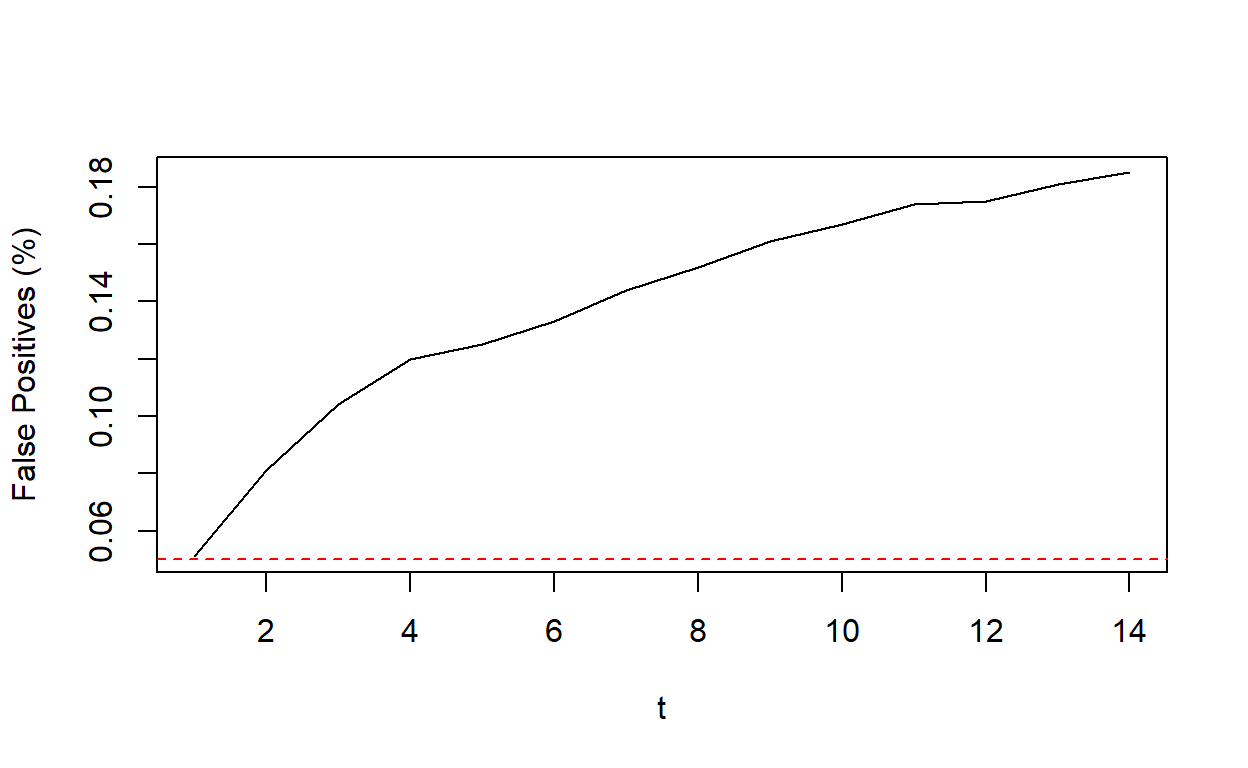
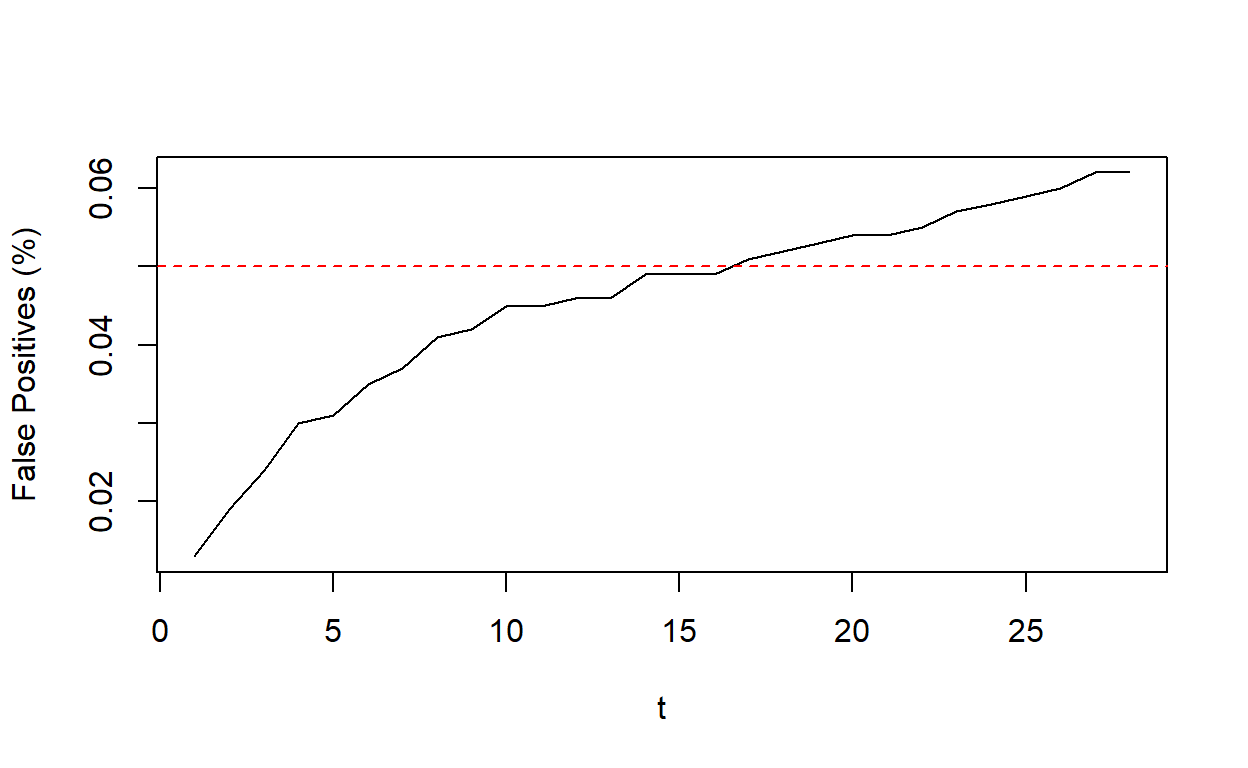
Update draft "AB tests and repeated checks"

diff --git a/_posts/ab-tests-and-repeated-checking/ab-tests-and-repeated-checking.html b/_posts/ab-tests-and-repeated-checking/ab-tests-and-repeated-checking.html
@@ -1538,24 +1538,25 @@ code span.wa { color: #5e5e5e; font-style: italic; } /* Warning */
 <blockquote>
 <p>“Did we already hit significance, or do we need more data?”</p>
 </blockquote>
-<p>If you are regularly dealing with experiments whose outcomes are loaded with
-high expectations, you will likely have received (or perhaps asked yourself)
-similar questions from time to time.</p>
+<p>If you have dealt with experiments with relatively high outcome expectations,
+you will likely have received (or perhaps asked yourself) similar questions
+from time to time.</p>
 <p>In many data analysis contexts, including but not limited to for-profit ones,
 researchers are always trying to come up with positive results as fast as
 they can. Therefore, it is not at all surprising to see questions such as the
 ones above regularly arise during the course of an experiment. This is natural
 and not a problem <em>per se</em>. What I want to highlight and quantify in this post
 is how, if not done carefully, such “real-time” monitoring schedules can
-seriously invalidate data analysis - mainly by inflating false positive rates.</p>
-<p>Generally speaking, naive monitoring leads to a problem of Selective
-Inference (a topic which I have touched in <a href="https://vgherard.github.io/#category:Selective_Inference">other places in this blog</a>). Avoiding
-repeated checks is not the only valid solution - here the keyword is
-<a href="https://en.wikipedia.org/wiki/Sequential_analysis">Sequential Hypothesis Testing</a>,
-a topic I may explore in future posts. Here my goal is to understand how bad is
-the bad solution, which we can easily achieve through simulation.</p>
+seriously invalidate data analysis - by inflating false positive and false
+negative rates.</p>
+<p>Generally speaking, naive monitoring leads to problems of selective/simultaneous
+inference (a topic which I have touched in <a href="https://vgherard.github.io/#category:Selective_Inference">other places in this blog</a>). Avoiding
+ad-hoc checks is not the only valid solution - if you want to learn about some
+proper method you may want to look into <a href="https://en.wikipedia.org/wiki/Sequential_analysis">Sequential Hypothesis Testing</a>,
+a topic that I may explore in future posts. Here my goal is to understand
+<em>how bad is the bad solution</em>, which can be easily answered through simulation.</p>
 <h2 id="whats-the-matter-with-repeated-checks">What’s the matter with repeated checks?</h2>
-<p>To understand where do problems arise, let’s remind that the classical
+<p>To understand why problems can arise, recall that the classical
 Frequentist framework <a href="#fn1" class="footnote-ref" id="fnref1" role="doc-noteref"><sup>1</sup></a> operates by providing
 <em>a priori</em> guarantees (bounds) on the probabilities of <a href="#fn2" class="footnote-ref" id="fnref2" role="doc-noteref"><sup>2</sup></a>:</p>
 <ul>
@@ -1563,16 +1564,63 @@ Frequentist framework <a href="#fn1" class="footnote-ref" id="fnref1" role="doc-
 hypothesis when this is actually true.</li>
 <li>A false negative outcome in the presence of some (well-defined) signal.</li>
 </ul>
-<p>These guarantees are always formulated assuming a certain experimental
-<em>schedule</em>, and any departure from it invalidates in principle the
-claimed False Positive Rate (FPR) and False Negative Rate (FNR).</p>
-<h1 id="simulation">Simulation</h1>
+<p>The <em>a priori</em> nature of these guarantees means that they are stipulated before
+running the experiment and assuming a certain experimental <em>schedule</em> <a href="#fn3" class="footnote-ref" id="fnref3" role="doc-noteref"><sup>3</sup></a>.
+This implies that any departure from the original schedule can in principle
+invalidate the claimed False Positive Rate (FPR) and False Negative Rate (FNR).</p>
+<p>For instance, the most basic experimental schedule
+(actually the one implicitly assumed by virtually all <a href="https://www.google.com/search?q=sample+size+calculator">sample size calculators</a>
+) is:</p>
+<ol type="1">
+<li>Collect data until reaching a prefixed sample size.</li>
+<li>Run an hypothesis test (with a prefixed significance threshold for claiming a
+signal).</li>
+</ol>
+<p>Common examples of departures from the original schedule include:</p>
+<ul>
+<li>Running several tests on partial data (before reaching the established sample
+size), to look for an early signal.</li>
+<li>Stopping the experiment beforehand, because partial data doesn’t show any
+signal.</li>
+<li>Prolonging the experiment after reaching the established sample size, because
+there’s a “hint” to a signal, but the significance threshold was not reached.</li>
+</ul>
+<p>In what follows, I will focus on the first behavior, whose result is to inflate
+the FPR. Again, there are various ways to perform repeated checks while keeping
+the FPR under control, but that’s not the focus of this post. Instead, I want to
+understand how FPR is affected by <em>repeating the original test several</em> times on
+partial data.</p>
+<h2 id="example">Example</h2>
+<p>Let me illustrate the idea with an example from marketing. Suppose you are
+running an experiment to optimize an email campaign, say you want to test
+whether a new email subject performs better (in terms of opening rates) than
+the current one.</p>
+<p>In order to do so, you start sending batches of 2K emails to random users,
+1K using the new subject and 1K using the old one. After each send, you
+compare the opening rates of all users reached so far, with the idea of
+replacing the old subject with the new one,
+<em>as soon as a statistically significant improvement is observed</em>.</p>
+<p>Concretely, you propose to do the following:</p>
+<ol type="1">
+<li>At each step, calculate the opening rates for the old and new subjects,
+for all email sends so far.</li>
+<li>Compute a <span class="math inline">\(p\)</span>-value for the hypothesis test<a href="#fn4" class="footnote-ref" id="fnref4" role="doc-noteref"><sup>4</sup></a> that tests whether the new subject leads
+to an higher opening rate than the old one.</li>
+<li>If the <span class="math inline">\(p\)</span>-value is smaller than a certain fixed threshold <span class="math inline">\(\alpha\)</span>, stop the
+experiment and declare the new subject as the winner.</li>
+<li>If no <span class="math inline">\(p\)</span>-value smaller than <span class="math inline">\(\alpha\)</span> is observed after a certain number <span class="math inline">\(n\)</span>
+of iterations, stop the experiment and declare the old subject as the winner.</li>
+</ol>
+<p>Now, the question is: how often would the above procedure declare the new
+subject as the winner, if it doesn’t truly perform better than the old one?
+(<em>i.e.</em> what is the FPR of the whole procedure?)</p>
+<h2 id="simulation">Simulation</h2>
+<p>To simplify things,</p>
 <div class="layout-chunk" data-layout="l-body">
 <div class="sourceCode">
 <pre class="sourceCode r"><code class="sourceCode r"><span><span class='va'>generate_p_values</span> <span class='op'>&lt;-</span> <span class='kw'>function</span><span class='op'>(</span><span class='va'>n</span> <span class='op'>=</span> <span class='fl'>14</span>, </span>
 <span>                              <span class='va'>size</span> <span class='op'>=</span> <span class='fl'>1e3</span>, </span>
-<span>                              <span class='va'>prob</span> <span class='op'>=</span> <span class='fl'>0.5</span>, </span>
-<span>                              <span class='va'>conf.level</span> <span class='op'>=</span> <span class='fl'>0.05</span></span>
+<span>                              <span class='va'>prob</span> <span class='op'>=</span> <span class='fl'>0.5</span></span>
 <span>                              <span class='op'>)</span> </span>
 <span>  <span class='op'>{</span></span>
 <span>  <span class='va'>successes_a</span> <span class='op'>&lt;-</span> <span class='fu'><a href='https://rdrr.io/r/base/cumsum.html'>cumsum</a></span><span class='op'>(</span> <span class='fu'><a href='https://rdrr.io/r/stats/Binomial.html'>rbinom</a></span><span class='op'>(</span>n <span class='op'>=</span> <span class='va'>n</span>, size <span class='op'>=</span> <span class='va'>size</span>, prob <span class='op'>=</span> <span class='va'>prob</span><span class='op'>)</span> <span class='op'>)</span></span>
@@ -1583,7 +1631,6 @@ claimed False Positive Rate (FPR) and False Negative Rate (FNR).</p>
 <span>      x <span class='op'>=</span> <span class='fu'><a href='https://rdrr.io/r/base/c.html'>c</a></span><span class='op'>(</span><span class='va'>successes_a</span><span class='op'>[</span><span class='va'>k</span><span class='op'>]</span>, <span class='va'>successes_b</span><span class='op'>[</span><span class='va'>k</span><span class='op'>]</span><span class='op'>)</span>, </span>
 <span>      n <span class='op'>=</span> <span class='va'>k</span> <span class='op'>*</span> <span class='va'>size</span> <span class='op'>*</span> <span class='fu'><a href='https://rdrr.io/r/base/c.html'>c</a></span><span class='op'>(</span><span class='fl'>1</span>, <span class='fl'>1</span><span class='op'>)</span>, </span>
 <span>      alternative <span class='op'>=</span> <span class='st'>"greater"</span>,</span>
-<span>      conf.level <span class='op'>=</span> <span class='va'>conf.level</span></span>
 <span>      <span class='op'>)</span><span class='op'>$</span><span class='va'>p.value</span></span>
 <span>  <span class='op'>}</span><span class='op'>)</span></span>
 <span><span class='op'>}</span></span></code></pre>
@@ -1593,13 +1640,13 @@ claimed False Positive Rate (FPR) and False Negative Rate (FNR).</p>
 <div class="sourceCode">
 <pre class="sourceCode r"><code class="sourceCode r"><span><span class='fu'><a href='https://rdrr.io/r/base/Random.html'>set.seed</a></span><span class='op'>(</span><span class='fl'>840</span><span class='op'>)</span></span>
 <span><span class='va'>ps</span> <span class='op'>&lt;-</span> <span class='fu'><a href='https://rdrr.io/r/base/lapply.html'>replicate</a></span><span class='op'>(</span><span class='fl'>1e3</span>, <span class='fu'>generate_p_values</span><span class='op'>(</span></span>
-<span>  n <span class='op'>=</span> <span class='fl'>14</span>, size <span class='op'>=</span> <span class='fl'>1e3</span>, prob <span class='op'>=</span> <span class='fl'>0.5</span>, conf.level <span class='op'>=</span> <span class='fl'>0.05</span></span>
+<span>  n <span class='op'>=</span> <span class='fl'>28</span>, size <span class='op'>=</span> <span class='fl'>1e3</span>, prob <span class='op'>=</span> <span class='fl'>0.5</span></span>
 <span><span class='op'>)</span><span class='op'>)</span> <span class='op'>|&gt;</span> <span class='fu'><a href='https://rdrr.io/r/base/t.html'>t</a></span><span class='op'>(</span><span class='op'>)</span></span></code></pre>
 </div>
 </div>
 <div class="layout-chunk" data-layout="l-body">
 <div class="sourceCode">
-<pre class="sourceCode r"><code class="sourceCode r"><span><span class='va'>m</span> <span class='op'>&lt;-</span> <span class='fu'><a href='https://rdrr.io/r/base/apply.html'>apply</a></span><span class='op'>(</span><span class='va'>ps</span>, <span class='fl'>1</span>, \<span class='op'>(</span><span class='va'>x</span><span class='op'>)</span> <span class='fu'><a href='https://rdrr.io/r/base/logical.html'>as.logical</a></span><span class='op'>(</span><span class='fu'><a href='https://rdrr.io/r/base/cumsum.html'>cumsum</a></span><span class='op'>(</span><span class='va'>x</span> <span class='op'>&lt;</span> <span class='fl'>0.05</span><span class='op'>)</span><span class='op'>)</span><span class='op'>)</span> <span class='op'>|&gt;</span> <span class='fu'><a href='https://rdrr.io/r/base/t.html'>t</a></span><span class='op'>(</span><span class='op'>)</span></span></code></pre>
+<pre class="sourceCode r"><code class="sourceCode r"><span><span class='va'>m</span> <span class='op'>&lt;-</span> <span class='fu'><a href='https://rdrr.io/r/base/apply.html'>apply</a></span><span class='op'>(</span><span class='va'>ps</span>, <span class='fl'>1</span>, \<span class='op'>(</span><span class='va'>x</span><span class='op'>)</span> <span class='fu'><a href='https://rdrr.io/r/base/logical.html'>as.logical</a></span><span class='op'>(</span><span class='fu'><a href='https://rdrr.io/r/base/cumsum.html'>cumsum</a></span><span class='op'>(</span><span class='va'>x</span> <span class='op'>&lt;</span> <span class='fl'>0.01</span><span class='op'>)</span><span class='op'>)</span><span class='op'>)</span> <span class='op'>|&gt;</span> <span class='fu'><a href='https://rdrr.io/r/base/t.html'>t</a></span><span class='op'>(</span><span class='op'>)</span></span></code></pre>
 </div>
 </div>
 <div class="layout-chunk" data-layout="l-body">
@@ -1614,9 +1661,17 @@ claimed False Positive Rate (FPR) and False Negative Rate (FNR).</p>
 </div>
 <p><img src="ab-tests-and-repeated-checking_files/figure-html5/unnamed-chunk-5-1.png" width="624" /></p>
 </div>
-<h1 id="other-simulation">Other simulation</h1>
+<h2 id="other-simulation">Other simulation</h2>
 <p>Using the logic “if significance &gt; 80%”, continue the experiment, otherwise
 not.</p>
+<h2 id="notes">Notes</h2>
+<p>But before jumping into numbers, let us ask for a moment:
+<em>should we really care?</em></p>
+<p>My answer is a resounding <em>yes</em>, irrespective of whether you are running
+experiments for purely scientific or utilitaristic purposes. If you are unable
+to quantify, or at least approximate, the true FPR and FNR of a statistical
+test, it means that you essentially don’t know what you are doing: you may be
+convinced that your setting gives a false positive</p>
 <div class="sourceCode" id="cb1"><pre class="sourceCode r distill-force-highlighting-css"><code class="sourceCode r"></code></pre></div>
 <section id="footnotes" class="footnotes footnotes-end-of-document" role="doc-endnotes">
 <hr />
@@ -1632,6 +1687,12 @@ used to indicate these two types of errors, and the corresponding a priori
 guarantees on their probabilities, sounds very mysterious to me
 (Type I/II errors, size and power…). I like to think in terms of
 “False Positive” and “False Negative” rates, which is the same thing.<a href="#fnref2" class="footnote-back" role="doc-backlink">↩</a></p></li>
+<li id="fn3"><p>This is
+generally true, also in the aforementioned sequential settings. In that case,
+the difference is that the schedule takes into account that continuous and/or
+interim checks will be performed.<a href="#fnref3" class="footnote-back" role="doc-backlink">↩</a></p></li>
+<li id="fn4"><p>Technically, this would be a
+two-sample, one-sided binomial test.<a href="#fnref4" class="footnote-back" role="doc-backlink">↩</a></p></li>
 </ol>
 </section>
 <!--radix_placeholder_article_footer-->
@@ -1641,6 +1702,15 @@ guarantees on their probabilities, sounds very mysterious to me
 <div class="d-appendix">
 </div>
 
+<!-- dynamically load mathjax for compatibility with self-contained -->
+<script>
+  (function () {
+    var script = document.createElement("script");
+    script.type = "text/javascript";
+    script.src  = "https://mathjax.rstudio.com/latest/MathJax.js?config=TeX-AMS-MML_HTMLorMML";
+    document.getElementsByTagName("head")[0].appendChild(script);
+  })();
+</script>
 
 <!--radix_placeholder_site_after_body-->
 <!--/radix_placeholder_site_after_body-->
